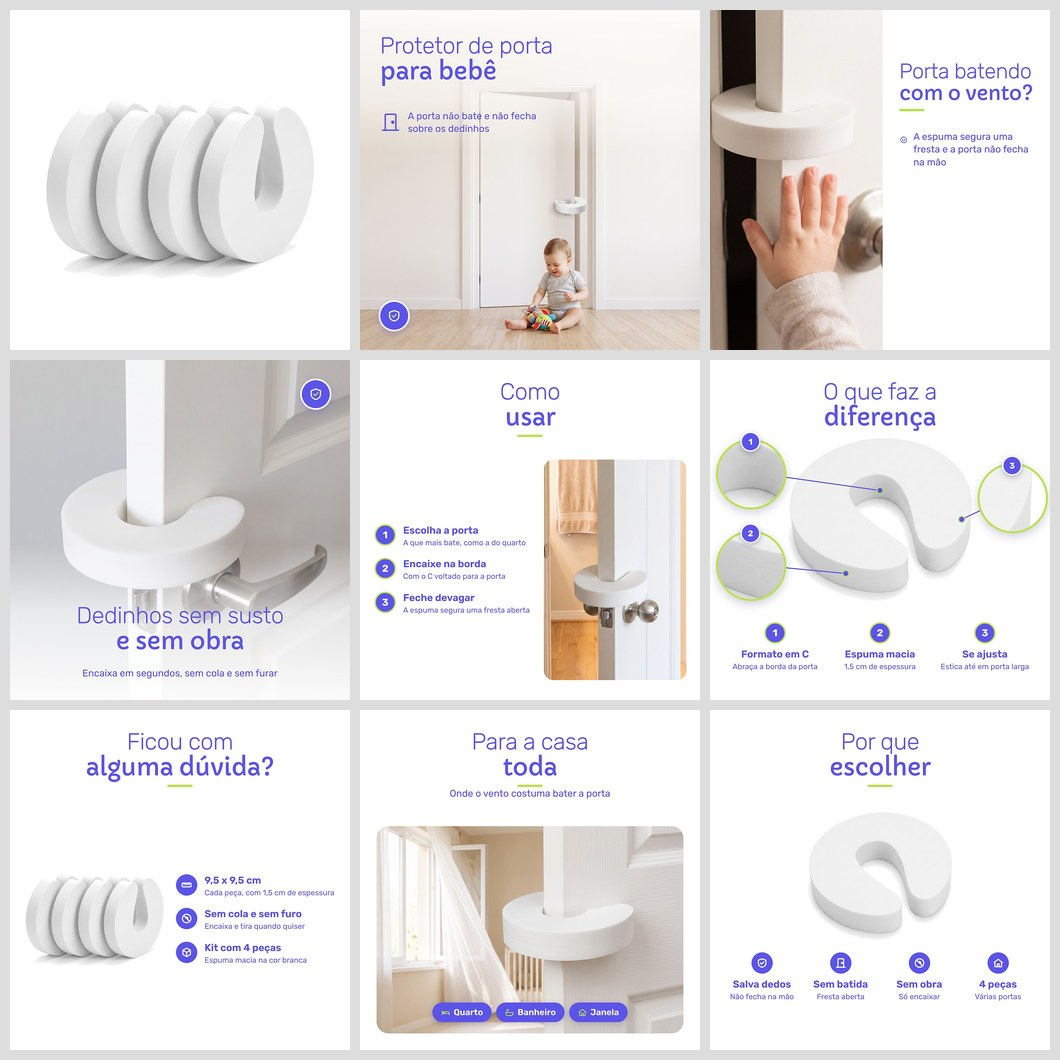
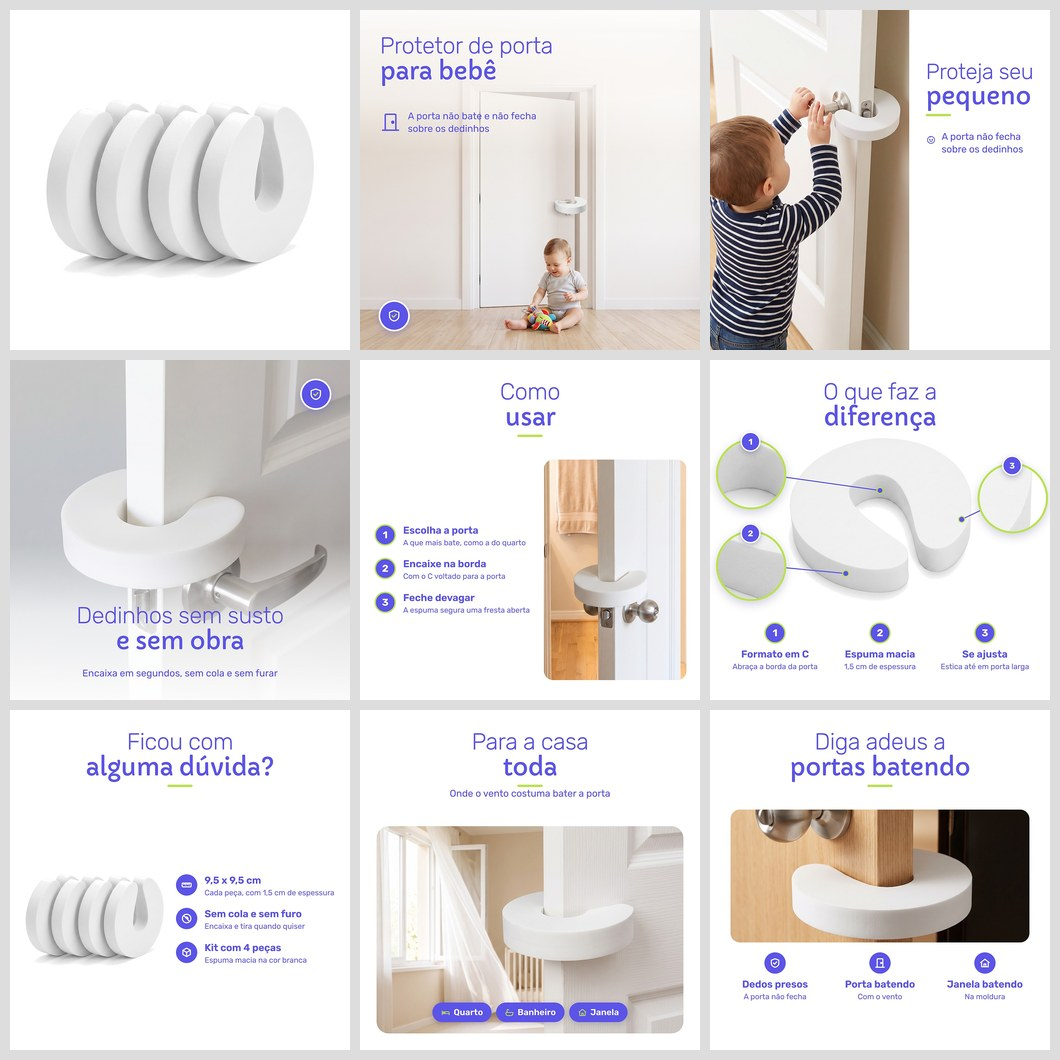
Artes protetor-porta-salva-dedos 20/10

Changed region(s): [[0.6538, 0.0, 0.9962, 0.3425], [0.6849, 0.6849, 0.9962, 0.9651]]

diff --git a/protetor-porta-salva-dedos/ficha-visual.md b/protetor-porta-salva-dedos/ficha-visual.md
@@ -24,3 +24,8 @@
 
 ## Variantes / divergências
 - Variante única (branco). Medida antiga da loja (10 x 9,8 x 2,2 cm) diverge; página atual já usa 9,5 cm/1,5 cm.
+
+## Refação 20/10 (tarde) — pedido do dono
+- Dono gostou de 2 fotos antigas da loja (L02 "Proteja seu pequeno" e L03 "Evita: acidentes / portas batendo / tranca acidental") e pediu no padrão.
+- Nova 03 (split): bebê de listras alcançando a maçaneta, protetor na borda (Gemini, ref estúdio + exemplo forn-macaneta). Sem colagem.
+- Nova 09 (passos): "Diga adeus a portas batendo" com Dedos presos · Porta batendo · Janela batendo. "Tranca acidental" ficou de fora (não afirmado; janela é confirmada por avaliação).
